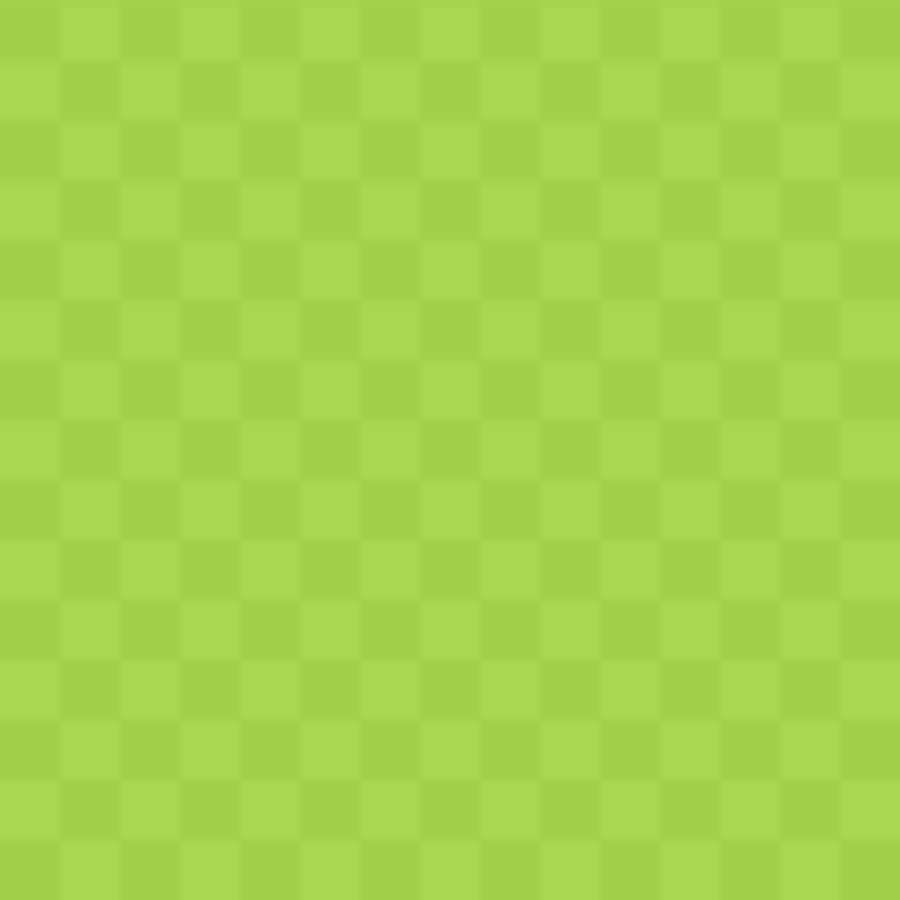
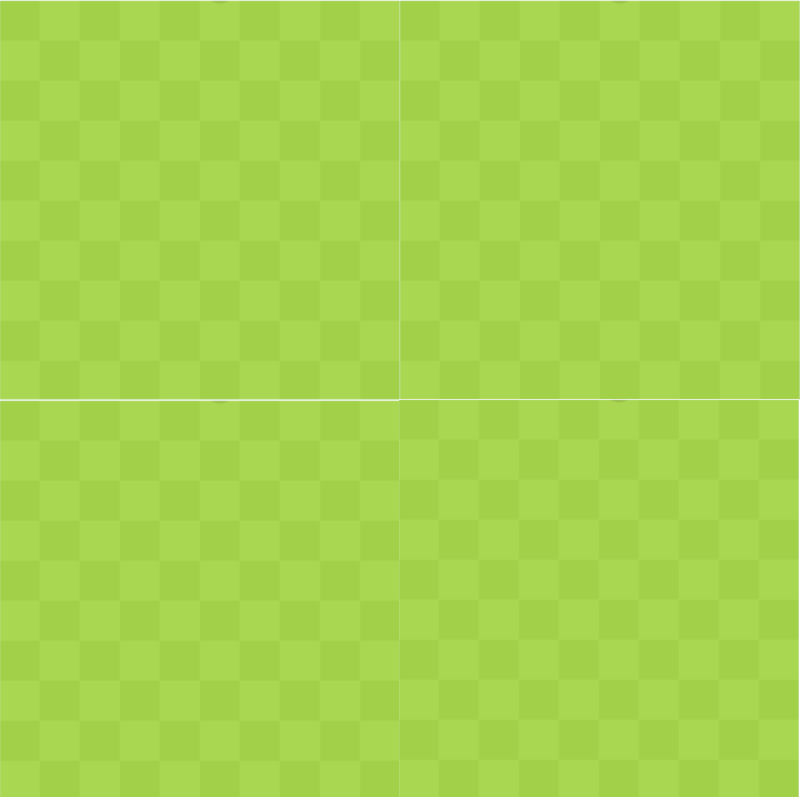
Rescaled board and changed movement

Changed region(s): [[0.9988, 0.0, 1.0, 1.0], [0.4682, 0.4818, 0.4994, 0.5119], [0.0, 0.4818, 0.0312, 0.5119]]

diff --git a/MonoGame Template/Core/Scene.cs b/MonoGame Template/Core/Scene.cs
@@ -13,6 +13,7 @@ namespace Snake.Core
     {
         private readonly List<GameObject> _gameObjects = new List<GameObject>();
         char turn = 'n';
+        Vector2 last_vel = new Vector2();
         public GameObject AddGameObject(GameObject go)
         {
             _gameObjects.Add(go);
@@ -31,69 +32,75 @@ namespace Snake.Core
         }
         public void Update(KeyboardState kstate, GameObject go, Dictionary<string, Texture2D> textures, float UpdateTime)
         {
-            go.GetComponent<PositionComponent>().Position = new Vector2(
-                go.GetComponent<PositionComponent>().Position.X + go.GetComponent<VelocityComponent>().Velocity.X * UpdateTime,
-                go.GetComponent<PositionComponent>().Position.Y + go.GetComponent<VelocityComponent>().Velocity.Y * UpdateTime);
-
-
-            if (kstate.IsKeyDown(Keys.Left) && go.GetComponent<DirectionComponent>().Direction != DirectionType.Right)
+            if (kstate.IsKeyDown(Keys.Space))
             {
-                turn = 'l';
+                if (go.GetComponent<VelocityComponent>().Velocity != new Vector2(0, 0))
+                {
+                    last_vel = go.GetComponent<VelocityComponent>().Velocity;
+                    go.GetComponent<VelocityComponent>().Velocity = new Vector2(0, 0);
+                }
+                else go.GetComponent<VelocityComponent>().Velocity = last_vel;
             }
-            else if (kstate.IsKeyDown(Keys.Right) && go.GetComponent<DirectionComponent>().Direction != DirectionType.Left)
+            if (kstate.GetPressedKeyCount() == 1)
             {
-                turn = 'r';
+                if (kstate.IsKeyDown(Keys.Left) && go.GetComponent<DirectionComponent>().Direction != DirectionType.Right)
+                {
+                    turn = 'l';
+                }
+                else if (kstate.IsKeyDown(Keys.Right) && go.GetComponent<DirectionComponent>().Direction != DirectionType.Left)
+                {
+                    turn = 'r';
+                }
+                else if (kstate.IsKeyDown(Keys.Up) && go.GetComponent<DirectionComponent>().Direction != DirectionType.Down)
+                {
+                    turn = 'u';
+                }
+                else if (kstate.IsKeyDown(Keys.Down) && go.GetComponent<DirectionComponent>().Direction != DirectionType.Up)
+                {
+                    turn = 'd';
+                }
             }
-            else if (kstate.IsKeyDown(Keys.Up) && go.GetComponent<DirectionComponent>().Direction != DirectionType.Down)
-            {
-                turn = 'u';
-            }
-            else if (kstate.IsKeyDown(Keys.Down) && go.GetComponent<DirectionComponent>().Direction != DirectionType.Up)
-            {
-                turn = 'd';
-            }
-            else if (kstate.IsKeyDown(Keys.Space))
-            {
-                go.GetComponent<VelocityComponent>().Velocity = new Microsoft.Xna.Framework.Vector2(0,0);
-            }
-            if(turn != 'n')
+            if(turn != 'n' &&
+                go.GetComponent<PositionComponent>().Position.X % 40 < 10 && go.GetComponent<PositionComponent>().Position.Y % 40 < 10)
             {
                 switch (turn)
                 {
                     case 'l':
                         go.GetComponent<DirectionComponent>().Direction = DirectionComponent.DirectionType.Left;
-                        go.GetComponent<VelocityComponent>().Velocity = new Microsoft.Xna.Framework.Vector2(-240, 0);
+                        go.GetComponent<VelocityComponent>().Velocity = new Microsoft.Xna.Framework.Vector2(-200, 0);
                         go.GetComponent<PositionComponent>().Position =
-                            new Vector2(go.GetComponent<PositionComponent>().Position.X,
-                            go.GetComponent<PositionComponent>().Position.Y - (go.GetComponent<PositionComponent>().Position.Y % 60) + 10);
+                            new Vector2(
+                            (go.GetComponent<PositionComponent>().Position.X / 40) * 40,
+                            (go.GetComponent<PositionComponent>().Position.Y / 40) * 40);
                         turn = 'n'; break;
                     case 'r':
                         go.GetComponent<DirectionComponent>().Direction = DirectionComponent.DirectionType.Right;
-                        go.GetComponent<VelocityComponent>().Velocity = new Microsoft.Xna.Framework.Vector2(240, 0);
+                        go.GetComponent<VelocityComponent>().Velocity = new Microsoft.Xna.Framework.Vector2(200, 0);
                         go.GetComponent<PositionComponent>().Position =
-                            new Vector2(go.GetComponent<PositionComponent>().Position.X,
-                            go.GetComponent<PositionComponent>().Position.Y - (go.GetComponent<PositionComponent>().Position.Y % 60) + 10);
+                            new Vector2(
+                            (go.GetComponent<PositionComponent>().Position.X / 40) * 40,
+                            (go.GetComponent<PositionComponent>().Position.Y / 40) * 40);
                         turn = 'n'; break;
                     case 'u':
                         go.GetComponent<DirectionComponent>().Direction = DirectionComponent.DirectionType.Up;
-                        go.GetComponent<VelocityComponent>().Velocity = new Microsoft.Xna.Framework.Vector2(0, -240);
+                        go.GetComponent<VelocityComponent>().Velocity = new Microsoft.Xna.Framework.Vector2(0, -200);
                         go.GetComponent<PositionComponent>().Position =
-                            new Vector2(go.GetComponent<PositionComponent>().Position.X - (go.GetComponent<PositionComponent>().Position.X % 60) + 10,
-                            go.GetComponent<PositionComponent>().Position.Y);
+                            new Vector2(
+                            (go.GetComponent<PositionComponent>().Position.X / 40) * 40,
+                            (go.GetComponent<PositionComponent>().Position.Y / 40) * 40);
                         turn = 'n'; break;
                     case 'd':
                         go.GetComponent<DirectionComponent>().Direction = DirectionComponent.DirectionType.Down;
-                        go.GetComponent<VelocityComponent>().Velocity = new Microsoft.Xna.Framework.Vector2(0, 240);
+                        go.GetComponent<VelocityComponent>().Velocity = new Microsoft.Xna.Framework.Vector2(0, 200);
                         go.GetComponent<PositionComponent>().Position =
-                            new Vector2(go.GetComponent<PositionComponent>().Position.X - (go.GetComponent<PositionComponent>().Position.X % 60) + 10,
-                            go.GetComponent<PositionComponent>().Position.Y);
+                            new Vector2(
+                            (go.GetComponent<PositionComponent>().Position.X / 40) * 40,
+                            (go.GetComponent<PositionComponent>().Position.Y / 40) * 40);
                         turn = 'n'; break;
 
                 }
             }
             
-
-
             switch (go.GetComponent<DirectionComponent>().Direction)
             {
                 case DirectionComponent.DirectionType.Left: go.GetComponent<TextureComponent>()._Texture = textures["head_left"]; break;
@@ -101,9 +108,9 @@ namespace Snake.Core
                 case DirectionComponent.DirectionType.Up: go.GetComponent<TextureComponent>()._Texture = textures["head_up"]; break;
                 case DirectionComponent.DirectionType.Down: go.GetComponent<TextureComponent>()._Texture = textures["head_down"]; break;
             }
-
-            
-
+            go.GetComponent<PositionComponent>().Position = new Vector2(
+                go.GetComponent<PositionComponent>().Position.X + go.GetComponent<VelocityComponent>().Velocity.X * UpdateTime,
+                go.GetComponent<PositionComponent>().Position.Y + go.GetComponent<VelocityComponent>().Velocity.Y * UpdateTime);
         }
     }
 }

diff --git a/MonoGame Template/Game1.cs b/MonoGame Template/Game1.cs
@@ -35,8 +35,8 @@ namespace Snake
         {
             // TODO: Add your initialization logic here
 
-            graphics.PreferredBackBufferWidth = 900;
-            graphics.PreferredBackBufferHeight = 900;
+            graphics.PreferredBackBufferWidth = 800;
+            graphics.PreferredBackBufferHeight = 800;
 
             graphics.ApplyChanges();
 
@@ -60,8 +60,8 @@ namespace Snake
             textures["head_right"] = Content.Load<Texture2D>("head_right");
             textures["apple_texture"] = Content.Load<Texture2D>("apple");
 
-            head = GameScene.AddGameObject(new Head(textures["head_right"], new Vector2(430, 430)));
-            apple_obj = GameScene.AddGameObject(new Apple(textures["apple_texture"], new Vector2(610, 430)));
+            head = GameScene.AddGameObject(new Head(textures["head_right"], new Vector2(400, 400)));
+            apple_obj = GameScene.AddGameObject(new Apple(textures["apple_texture"], new Vector2(480, 400)));
 
 
         }

diff --git a/MonoGame Template/GameObjects/Head.cs b/MonoGame Template/GameObjects/Head.cs
@@ -15,7 +15,7 @@ namespace Snake.GameObjects
             AddComponent(new TextureComponent(texture));
             AddComponent(new PositionComponent(Position));
             AddComponent(new DirectionComponent());
-            AddComponent(new VelocityComponent(new Vector2(240,0)));
+            AddComponent(new VelocityComponent());
         }
     }
 }

diff --git a/MonoGame Template/Components/VelocityComponent.cs b/MonoGame Template/Components/VelocityComponent.cs
@@ -16,6 +16,11 @@ namespace Snake.Components
             Velocity = arg;
         }
 
+        public VelocityComponent()
+        {
+            Velocity = new Vector2(0,0);
+        }
+
         public void Update()
         {
             

diff --git a/MonoGame Template/Core/GameObject.cs b/MonoGame Template/Core/GameObject.cs
@@ -1,6 +1,7 @@
 using System;
 using System.Collections.Generic;
 using System.Text;
+using Microsoft.Xna.Framework;
 using Microsoft.Xna.Framework.Graphics;
 using Snake.Components;
 namespace Snake.Core
